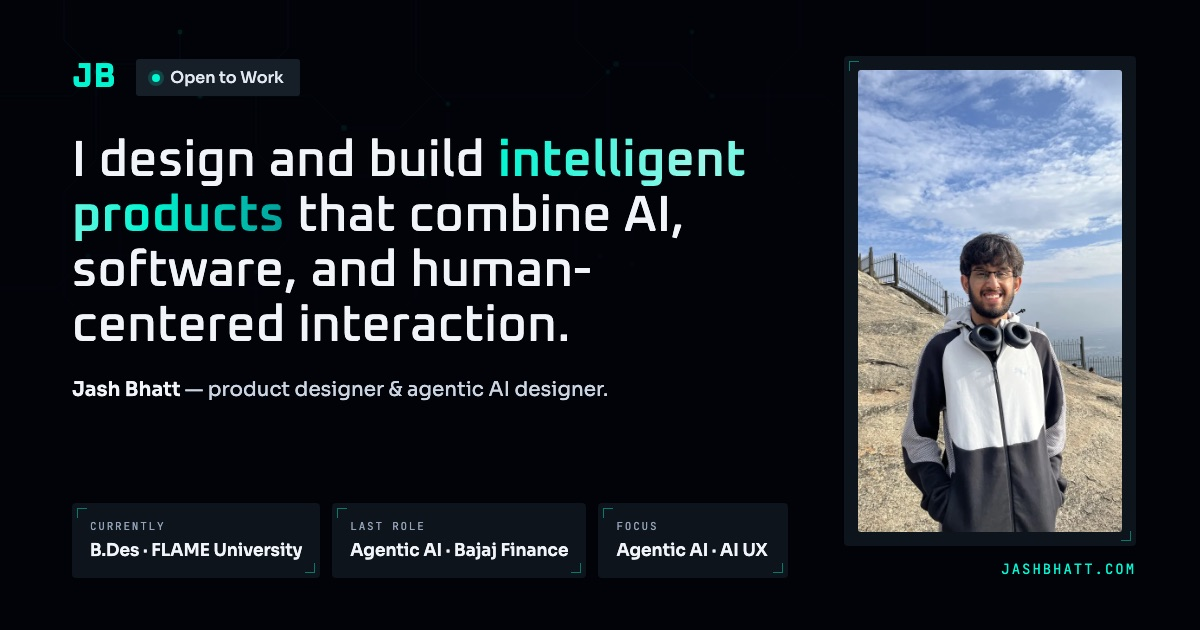
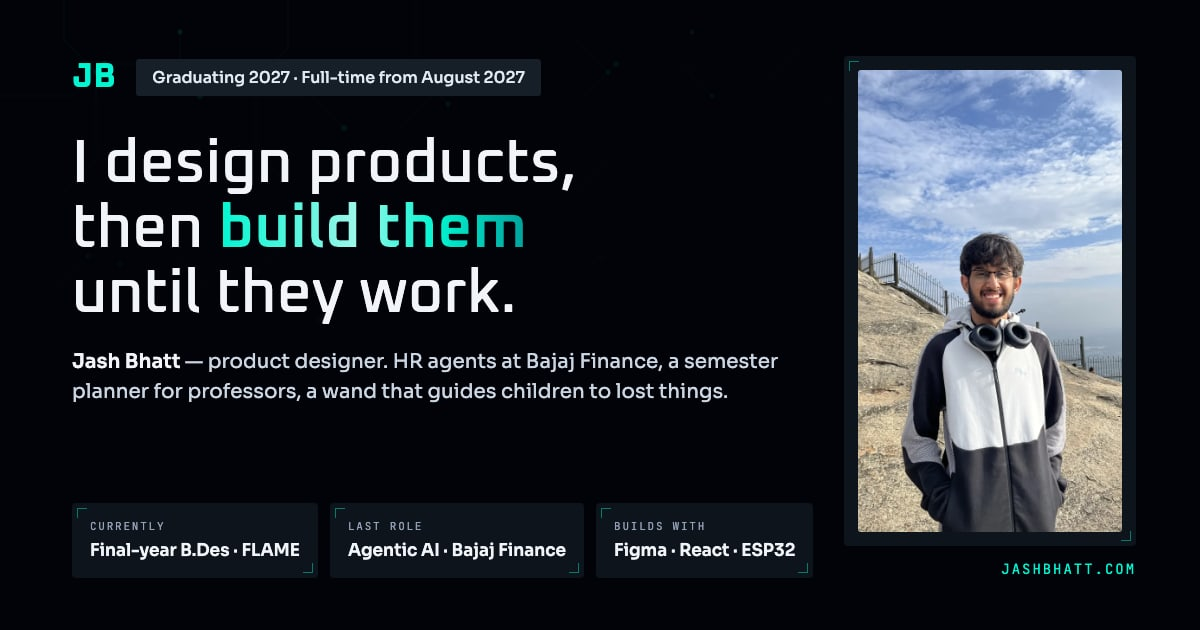
Lead with one title, one availability line, and the résumé twice
Amit's points 6 to 8:

- One title, "Product designer", and a hero that says what sets the work
  apart: "I design products, then build them until they work." The
  line that cycled through five identities is gone; the subline names
  three projects instead. The title changes everywhere it appeared:
  page titles, JSON-LD, the manifest, the noscript and crash screens,
  and a re-rendered share card.
- Availability is stated once, accurately: "Graduating 2027 ·
  Full-time from August 2027" in the hero. The "Currently available"
  chip in Contact is gone.
- The résumé stays in the nav (and the mobile menu that stands in for
  it) and the footer, all opening the PDF in a new tab. The hero
  button and the two contact cards are removed.
- Job titles match the résumé: AI Agent Development Intern at Bajaj,
  UI/UX Intern at RAHI.

diff --git a/src/App.tsx b/src/App.tsx
@@ -3,7 +3,7 @@ import { Analytics } from '@vercel/analytics/react';
 import { SpeedInsights } from '@vercel/speed-insights/react';
 import {
   X, Linkedin, ArrowRight, ArrowLeft,
-  ChevronDown, Image as PhotoIcon, Download, Briefcase, Award,
+  ChevronDown, Image as PhotoIcon, Briefcase, Award,
 } from 'lucide-react';
 const ProjectDetail = lazy(() => import('./components/ProjectDetail'));
 // The desktop pet is ~0.5MB of sprite sheet for a flourish. Splitting it out
@@ -11,7 +11,6 @@ const ProjectDetail = lazy(() => import('./components/ProjectDetail'));
 const LewisPet = lazy(() => import('./components/LewisPet'));
 import ResponsiveImage from './components/ResponsiveImage';
 import Reveal from './components/Reveal';
-import RotatingText from './components/RotatingText';
 import PipeList from './components/PipeList';
 import TiltCard from './components/TiltCard';
 import BackToTop from './components/BackToTop';
@@ -28,7 +27,7 @@ import { useIsMobile } from './hooks/useIsMobile';
 import { projects } from './data/projects';
 import { orderedProjects, featuredProjects, secondaryProjects, CONTAINED_THUMBNAIL_BACKDROPS } from './config/projects';
 import {
-  ui, personalitySignals, operatorStats,
+  ui, operatorStats,
   CONTACT_EMAIL, LINKEDIN_URL, LINKEDIN_HANDLE,
 } from './config/ui';
 import { PUBLIC_URL } from './utils/getBaseUrl';
@@ -546,7 +545,7 @@ const App = () => {
       description: string,
       path: string,
       image = `${SITE_ORIGIN}/og-image.png`,
-      imageAlt = 'Jash Bhatt — product designer and agentic AI designer.'
+      imageAlt = 'Jash Bhatt — product designer, with a portrait of Jash.'
     ) => {
       const url = `${SITE_ORIGIN}${path === '/' ? '/' : path}`;
       document.title = title;
@@ -583,7 +582,7 @@ const App = () => {
     }
 
     apply(
-      'Jash Bhatt | Product Designer & Agentic AI Designer',
+      'Jash Bhatt | Product Designer',
       'Conversational AI agents at Bajaj Finance, a B2B marketplace for corporate mobility, and a Spotify data story — case studies from a B.Des student at FLAME University.',
       mobilePage === 'home' ? '/' : `/${mobilePage}`
     );
@@ -1102,11 +1101,12 @@ const App = () => {
                 href={`${PUBLIC_URL}/Jash_Bhatt_Resume.pdf`}
                 target="_blank"
                 rel="noreferrer"
-                download="Jash_Bhatt_Resume.pdf"
                 onClick={() => setIsMenuOpen(false)}
                 className="flex w-full items-center gap-2 min-h-12 px-4 mt-2 pt-4 border-t border-white/10 text-lg font-medium text-accent rounded-xl active:bg-white/10"
               >
-                <Download size={18} aria-hidden="true" /> Résumé (PDF)
+                Résumé (PDF)
+                <span aria-hidden="true">↗</span>
+                <span className="sr-only">(opens in a new tab)</span>
               </a>
             </div>
           </div>
@@ -1158,40 +1158,24 @@ const App = () => {
               <div className="grid lg:grid-cols-12 gap-10 items-stretch">
                 <div className="lg:col-span-8 lg:h-full lg:flex lg:flex-col">
                   <div className="mb-4 md:mb-6 animate-fade-in-up" style={{ animationDelay: '0ms' }}>
-                    <span className="chip inline-flex items-center gap-2.5 px-4 py-1.5 rounded-sm text-ink text-sm font-medium">
-                      <span className="pulse-dot" aria-hidden="true" />
-                      Open to Work
+                    {/* The site's one statement of availability. A chip here
+                        and another in Contact both used to claim it, vaguely
+                        and a year early. No pulse dot: it signalled
+                        "available now". */}
+                    {/* "Aug" below sm: spelled out, the chip wraps to two lines at 375px. */}
+                    <span className="chip inline-flex items-center px-4 py-1.5 rounded-sm text-ink text-sm font-medium">
+                      Graduating 2027 · Full-time from&nbsp;<span className="sm:hidden">Aug</span><span className="hidden sm:inline">August</span>&nbsp;2027
                     </span>
                   </div>
                   <h1 className={`${ui.h1} font-display text-ink mb-3.5 md:mb-5 animate-fade-in-up`} style={{ animationDelay: '60ms' }}>
-                    I design and build <span className="accent-shimmer font-semibold">intelligent products</span> that combine AI, software, and human-centered interaction.
+                    I design products, then <span className="accent-shimmer font-semibold">build them</span> until they work.
                   </h1>
-                  <p className="text-[1.05rem] md:text-[1.34rem] text-ink-body mb-4 md:mb-6 leading-relaxed max-w-3xl animate-fade-in-up" style={{ animationDelay: '140ms' }}>
-                    {/* Two different good breaks at two widths, so the rules differ.
-                        Everywhere: "agentic AI" and "FLAME University." never split.
-                        At md+ the line fits in two, so the trailing clause is held
-                        whole and the break lands on the comma; below md it needs
-                        three lines, where locking the clause left a short ragged
-                        middle line, so it wraps freely there instead. */}
-                    I'm <span className="font-semibold text-ink">Jash Bhatt</span> — product designer and agentic&nbsp;AI designer,{' '}
-                    <span className="md:whitespace-nowrap">studying at FLAME&nbsp;University.</span>
+                  {/* One title. The line under it used to cycle through five
+                      identities, from Product Designer to Circuit & Hardware;
+                      the projects named here make the case instead. */}
+                  <p className="text-[1.05rem] md:text-[1.34rem] text-ink-body mb-5 lg:mb-8 leading-relaxed max-w-3xl animate-fade-in-up" style={{ animationDelay: '140ms' }}>
+                    I'm <span className="font-semibold text-ink">Jash Bhatt</span>, a product designer in my final year at FLAME&nbsp;University. HR agents at Bajaj Finance, a semester planner for professors, a wand that guides children to lost things: I designed each one, then built it.
                   </p>
-
-                  {/* The accent rule replaces the old `>` prompt: it keeps the
-                      line anchored to the left margin without the console idiom. */}
-                  <div className="flex items-center mb-5 lg:hidden min-h-[32px] border-l-2 border-accent pl-3 animate-fade-in-up" style={{ animationDelay: '200ms' }}>
-                    <RotatingText
-                      phrases={personalitySignals}
-                      className="text-base font-semibold text-ink"
-                    />
-                  </div>
-
-                  <div className="hidden lg:flex items-center mb-8 min-h-[36px] whitespace-nowrap border-l-2 border-accent pl-3.5 animate-fade-in-up" style={{ animationDelay: '260ms' }}>
-                    <RotatingText
-                      phrases={personalitySignals}
-                      className="text-lg font-semibold text-ink"
-                    />
-                  </div>
 
                   <div className="hidden lg:flex flex-col sm:flex-row gap-4 mt-auto animate-fade-in-up" style={{ animationDelay: '380ms' }}>
                     <Magnetic
@@ -1209,17 +1193,6 @@ const App = () => {
                       className={`${ui.btnBase} ${ui.btnSecondary} ${ui.focusRing}`}
                     >
                       Get in Touch
-                    </Magnetic>
-                    <Magnetic
-                      as="a"
-                      strength={28}
-                      href={`${PUBLIC_URL}/Jash_Bhatt_Resume.pdf`}
-                      target="_blank"
-                      rel="noreferrer"
-                      download="Jash_Bhatt_Resume.pdf"
-                      className={`${ui.btnBase} ${ui.btnSecondary}`}
-                    >
-                      <Download size={18} aria-hidden="true" /> Résumé
                     </Magnetic>
                   </div>
                 </div>
@@ -1383,18 +1356,11 @@ const App = () => {
             <section className={`${ui.shell} pb-14 sm:pb-20`} aria-labelledby="home-contact-heading">
               <Reveal variant="rise-soft" className="mb-5">
                 <h2 id="home-contact-heading" className="text-2xl font-display text-ink">Let's Build Something</h2>
-                <p className="mt-2 text-[0.95rem] text-ink-body">Open to roles in agentic&nbsp;AI, product design, and UI/UX.</p>
+                <p className="mt-2 text-[0.95rem] text-ink-body">Hiring a product designer who can also build? Email is the quickest way to reach&nbsp;me.</p>
               </Reveal>
               <Reveal variant="rise" delay={80} className="grid grid-cols-1 gap-3">
                 <CopyEmail email={CONTACT_EMAIL} />
                 <ContactLinkCard href={LINKEDIN_URL} icon={<Linkedin size={22} />} label="LinkedIn" value={LINKEDIN_HANDLE} />
-                <ContactLinkCard
-                      href={`${PUBLIC_URL}/Jash_Bhatt_Resume.pdf`}
-                      icon={<Download size={22} />}
-                      label="Résumé"
-                      value="Download PDF"
-                      download="Jash_Bhatt_Resume.pdf"
-                    />
               </Reveal>
             </section>
           )}
@@ -1408,7 +1374,7 @@ const App = () => {
                 simply there: it sits in view on arrival. */}
             <Reveal className="mb-10 sm:mb-14 md:mb-16 max-w-2xl max-md:![mask-image:none] max-md:![-webkit-mask-image:none]">
               <h2 id="work-heading" className={`${ui.h2} font-display text-ink mb-3 md:mb-4`}>Selected Projects</h2>
-              <p className="text-ink-body max-w-2xl mb-5 md:mb-6">AI agents, AI-enabled interfaces, and the circuits underneath them — each project shows how I think through design, engineering, and behavior together.</p>
+              <p className="text-ink-body max-w-2xl mb-5 md:mb-6">Each one taken from a question to a working build: what I designed, why, and what I built to prove it.</p>
               <Reveal variant="grow-width" className="max-md:![mask-image:none] max-md:![-webkit-mask-image:none]">
                 <div className="h-1 w-24 bg-gradient-to-r from-accent to-accent-deep rounded-sm"></div>
               </Reveal>
@@ -1668,7 +1634,7 @@ const App = () => {
                         <h3 className="text-xl font-semibold tracking-tight text-ink">Design</h3>
                       </div>
                       <PipeList
-                        items={['Agentic AI Workflows', 'Product Design', 'Circuit Design', 'Generative AI in Design', 'UI/UX Design', 'Design Systems', 'Industrial Design']}
+                        items={['Product Design', 'UI/UX Design', 'Agentic AI Workflows', 'Design Systems', 'Circuit Design', 'Industrial Design', 'Generative AI in Design']}
                         flow="column"
                         className="text-sm font-medium text-accent-br"
                       />
@@ -1698,12 +1664,12 @@ const App = () => {
                     <h3 className="text-xl font-semibold tracking-tight text-ink mb-4">Experience</h3>
                     <div className="space-y-4 md:space-y-6">
                       <div>
-                        <h4 className="text-lg font-bold text-ink">Design &amp; Development Intern</h4>
+                        <h4 className="text-lg font-bold text-ink">AI Agent Development Intern</h4>
                         <p className="text-ink-body font-medium">Bajaj Finance · Agentic AI Unit</p>
                         <p className="text-sm text-accent-deep font-medium mt-1">Summer 2026</p>
                       </div>
                       <div>
-                        <h4 className="text-lg font-bold text-ink">UI Design Intern</h4>
+                        <h4 className="text-lg font-bold text-ink">UI/UX Intern</h4>
                         <p className="text-ink-body font-medium">RAHI Platform Technologies</p>
                         <p className="text-sm text-accent-deep font-medium mt-1">Summer 2025</p>
                       </div>
@@ -1741,12 +1707,8 @@ const App = () => {
                 <Reveal variant="rise-soft">
                   <h2 id="contact-heading" className={`${ui.h2} font-display text-ink mb-3 lg:mb-6`}>Let's Build <span className="accent-shimmer">Something</span></h2>
                   <p className="text-base lg:text-xl text-ink-body mb-4 lg:mb-6">
-                    I am actively looking for opportunities in agentic&nbsp;AI, product design, and UI/UX — where I can contribute from research through to implementation.
+                    Hiring a product designer who can also build? Email is the quickest way to reach&nbsp;me.
                   </p>
-                  <span className="chip inline-flex items-center gap-2.5 px-4 py-1.5 rounded-sm !bg-accent/10 text-accent-br text-sm font-medium">
-                    <span className="pulse-dot" aria-hidden="true" />
-                    Currently available
-                  </span>
                 </Reveal>
 
                 <div className="grid grid-cols-1 gap-4 w-full max-w-[26rem]">
@@ -1762,17 +1724,6 @@ const App = () => {
                     </Magnetic>
                   </Reveal>
 
-                  <Reveal variant="rise" delay={240} className="h-full">
-                    <Magnetic className="h-full">
-                      <ContactLinkCard
-                      href={`${PUBLIC_URL}/Jash_Bhatt_Resume.pdf`}
-                      icon={<Download size={22} />}
-                      label="Résumé"
-                      value="Download PDF"
-                      download="Jash_Bhatt_Resume.pdf"
-                    />
-                    </Magnetic>
-                  </Reveal>
                 </div>
               </div>
             </div>

diff --git a/index.html b/index.html
@@ -12,7 +12,7 @@
     <meta name="viewport" content="width=device-width, initial-scale=1.0, viewport-fit=cover" />
     <meta name="description" content="Conversational AI agents at Bajaj Finance, a B2B marketplace for corporate mobility, and a Spotify data story — case studies from a B.Des student at FLAME University." />
     <link rel="canonical" href="https://jashbhatt.com/" />
-    <title>Jash Bhatt | Product Designer &amp; Agentic AI Designer</title>
+    <title>Jash Bhatt | Product Designer</title>
 
     <!-- The webfonts are on the critical path for the headline, so warm the
          connection before the stylesheet asks for them. -->
@@ -24,18 +24,18 @@
          case study gets its own card instead of all eleven sharing this one. -->
     <meta property="og:type" content="website" />
     <meta property="og:site_name" content="Jash Bhatt" />
-    <meta property="og:title" content="Jash Bhatt | Product Designer &amp; Agentic AI Designer" />
+    <meta property="og:title" content="Jash Bhatt | Product Designer" />
     <meta property="og:description" content="Jash Bhatt Portfolio" />
     <meta property="og:url" content="https://jashbhatt.com/" />
     <meta property="og:image" content="https://jashbhatt.com/og-image.jpg" />
     <meta property="og:image:width" content="1200" />
     <meta property="og:image:height" content="630" />
-    <meta property="og:image:alt" content="Jash Bhatt — product designer and agentic AI designer, with a portrait of Jash." />
+    <meta property="og:image:alt" content="Jash Bhatt — product designer, with a portrait of Jash." />
     <meta property="og:locale" content="en_US" />
 
     <!-- Twitter / X -->
     <meta name="twitter:card" content="summary_large_image" />
-    <meta name="twitter:title" content="Jash Bhatt | Product Designer &amp; Agentic AI Designer" />
+    <meta name="twitter:title" content="Jash Bhatt | Product Designer" />
     <meta name="twitter:description" content="Jash Bhatt Portfolio" />
     <meta name="twitter:image" content="https://jashbhatt.com/og-image.jpg" />
   </head>
@@ -46,7 +46,7 @@
     <noscript>
       <div style="max-width:40rem;margin:0 auto;padding:3rem 1.25rem;font-family:system-ui,sans-serif;color:#f1f5f9;background:#010309;line-height:1.6">
         <h1 style="font-size:1.75rem;margin:0 0 .5rem">Jash Bhatt</h1>
-        <p style="margin:0 0 1.5rem;color:#cbd5e1">Product designer and agentic AI designer. I design and build intelligent products that combine AI, software, and human-centered interaction.</p>
+        <p style="margin:0 0 1.5rem;color:#cbd5e1">Product designer. I design products, then build them until they work.</p>
         <p style="margin:0 0 1.5rem;color:#94a3b8">This portfolio needs JavaScript to show the case studies. Everything below still works without it.</p>
         <p style="margin:0">
           <a href="mailto:jashbhatt.contact@gmail.com" style="color:#01f5d1">jashbhatt.contact@gmail.com</a><br />

diff --git a/scripts/og-card.html b/scripts/og-card.html
@@ -35,7 +35,7 @@
   }
   .wrap {
     position:relative; height:100%;
-    display:grid; grid-template-columns:1fr 292px; gap:56px;
+    display:grid; grid-template-columns:minmax(0, 1fr) 292px; gap:56px;
     padding:56px 64px 52px 72px;
   }
   .left { display:flex; flex-direction:column; }
@@ -49,8 +49,8 @@
   .dot { width:8px; height:8px; border-radius:50%; background:rgb(var(--accent)); box-shadow:0 0 0 4px rgb(var(--accent) / .18); }
   h1 {
     font-family:'Oxanium', sans-serif; font-weight:500;
-    font-size:50px; line-height:1.1; letter-spacing:.01em;
-    margin-top:36px;
+    font-size:60px; line-height:1.08; letter-spacing:.01em;
+    margin-top:34px;
   }
   .accent {
     font-weight:600;
@@ -88,14 +88,14 @@
     <div class="left">
       <div class="top">
         <span class="mark">JB</span>
-        <span class="chip"><span class="dot"></span>Open to Work</span>
+        <span class="chip">Graduating 2027 · Full-time from August 2027</span>
       </div>
-      <h1>I design and build <span class="accent">intelligent products</span> that combine AI, software, and human-centered interaction.</h1>
-      <p class="sub"><b>Jash Bhatt</b> — product designer &amp; agentic AI designer.</p>
+      <h1>I design products,<br>then <span class="accent">build them</span><br>until they work.</h1>
+      <p class="sub"><b>Jash Bhatt</b> — product designer. HR agents at Bajaj Finance, a semester planner for professors, a wand that guides children to lost things.</p>
       <div class="stats">
-        <div class="surface marks stat"><div class="label">Currently</div><div class="value">B.Des · FLAME University</div></div>
+        <div class="surface marks stat"><div class="label">Currently</div><div class="value">Final-year B.Des · FLAME</div></div>
         <div class="surface marks stat"><div class="label">Last role</div><div class="value">Agentic AI · Bajaj Finance</div></div>
-        <div class="surface marks stat"><div class="label">Focus</div><div class="value">Agentic AI · AI UX</div></div>
+        <div class="surface marks stat"><div class="label">Builds with</div><div class="value">Figma · React · ESP32</div></div>
       </div>
     </div>
     <div class="right">

diff --git a/src/components/ContactLinkCard.tsx b/src/components/ContactLinkCard.tsx
@@ -6,21 +6,18 @@ type ContactLinkCardProps = {
   icon: ReactNode;
   label: string;
   value: string;
-  /** Present on the résumé card: without it a link labelled "Download PDF"
-      merely opened the file inline in a new tab. */
-  download?: string;
 };
 
-// The LinkedIn and Resume contact cards. Shared by the Contact section and the
-// contact strip at the foot of the mobile Home page, so the two can't drift.
-// Styling mirrors CopyEmail, which is the third card in the set.
-export default function ContactLinkCard({ href, icon, label, value, download }: ContactLinkCardProps) {
+// The LinkedIn contact card. Shared by the Contact section and the contact
+// strip at the foot of the mobile Home page, so the two can't drift. Styling
+// mirrors CopyEmail, the other card in the set. The résumé used to be a card
+// here too; it now lives only in the nav and the footer.
+export default function ContactLinkCard({ href, icon, label, value }: ContactLinkCardProps) {
   return (
     <a
       href={href}
       target="_blank"
       rel="noreferrer"
-      download={download}
       className="surface surface-marks relative flex items-center gap-4 p-4 lg:p-5 w-full h-full rounded-2xl card-glow group overflow-hidden focus:outline-none focus-visible:ring-2 focus-visible:ring-accent"
     >
       <div className="absolute left-0 top-4 bottom-4 w-0.5 bg-gradient-to-b from-transparent via-accent/50 to-transparent rounded-sm" />
@@ -32,7 +29,7 @@ export default function ContactLinkCard({ href, icon, label, value, download }: 
         <p className="text-ink font-semibold text-sm group-hover:text-accent transition-colors">{value}</p>
       </div>
       <ArrowUpRight aria-hidden="true" size={18} className="ml-auto text-ink-faint opacity-0 -translate-x-1 group-hover:opacity-100 group-hover:translate-x-0 group-hover:text-accent transition-all duration-300" />
-      <span className="sr-only">{download ? '(downloads a PDF)' : '(opens in a new tab)'}</span>
+      <span className="sr-only">(opens in a new tab)</span>
     </a>
   );
 }

diff --git a/src/config/ui.ts b/src/config/ui.ts
@@ -49,25 +49,12 @@ export const CONTACT_EMAIL = 'jashbhatt.contact@gmail.com';
 export const LINKEDIN_URL = 'https://www.linkedin.com/in/jash-bhatt';
 export const LINKEDIN_HANDLE = '/in/jash-bhatt';
 
-export const personalitySignals = [
-  // The two role titles lead; the skill areas follow. 'Agentic AI Design'
-  // sits apart from 'AI-Assisted Design' so the two AI lines never land
-  // back to back in the cycle.
-  'Product Designer',
-  'Agentic AI Design',
-  'UI/UX & Interaction Design',
-  'Circuit & Hardware',
-  'AI-Assisted Design',
-];
-
 export const operatorStats = [
-  { label: 'Currently', value: 'B.Des · FLAME University' },
+  { label: 'Currently', value: 'Final-year B.Des · FLAME' },
   { label: 'Last Role', value: 'Agentic AI · Bajaj Finance' },
-  // Was "Status: Available for work" — the third of four places the page said
-  // the same thing, between the hero's "Open to Work" chip and two more in
-  // Contact. A stat card is a poor use of the fourth-most-read line on the
-  // page for a fact already established above it.
-  { label: 'Focus', value: 'Agentic AI · AI UX' },
+  // Availability lives once, in the hero chip. This card backs up the
+  // headline's "then build them" with what the building is done in.
+  { label: 'Builds with', value: 'Figma · React · ESP32' },
 ];
 
 export const galleryItems: GalleryItem[] = [

diff --git a/src/components/ErrorBoundary.tsx b/src/components/ErrorBoundary.tsx
@@ -81,7 +81,7 @@ export default class ErrorBoundary extends Component<Props, State> {
             </p>
             <h1 className="mt-3 text-3xl font-display sm:text-4xl">Jash Bhatt</h1>
             <p className="mt-2 text-lg text-ink-body">
-              Product designer and agentic AI designer.
+              Product designer.
             </p>
             <p className="mt-6 max-w-xl text-ink-muted">
               This page hit an error it couldn&rsquo;t recover from. Reloading usually

diff --git a/src/data/projects.ts b/src/data/projects.ts
@@ -184,7 +184,7 @@ export const projects: Project[] = [
     content: {
       heroImage: `${PUBLIC_URL}/images/HR Genie/HR-Genie-Hero.svg`,
       thumbnailImage: `${PUBLIC_URL}/images/HR Genie/HR-Genie-Thumbnail.svg`,
-      role: "Agentic AI Intern",
+      role: "AI Agent Development Intern",
       sections: [
         {
           title: "Overview",
